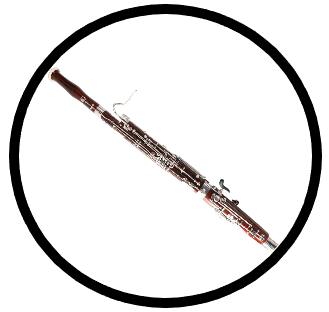
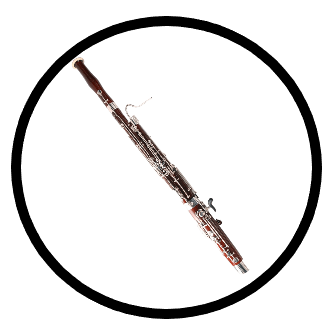
Added pictures of all instruments

Changed region(s): [[0.0304, 0.0, 1.0, 1.0], [0.3951, 0.2885, 0.4255, 0.3173]]

diff --git a/SeniorProject/Properties/Resources.Designer.cs b/SeniorProject/Properties/Resources.Designer.cs
@@ -63,36 +63,6 @@ namespace SeniorProject.Properties {
         /// <summary>
         ///   Looks up a localized resource of type System.Drawing.Bitmap.
         /// </summary>
-        internal static System.Drawing.Bitmap AdjustedFlute {
-            get {
-                object obj = ResourceManager.GetObject("AdjustedFlute", resourceCulture);
-                return ((System.Drawing.Bitmap)(obj));
-            }
-        }
-        
-        /// <summary>
-        ///   Looks up a localized resource of type System.Drawing.Bitmap.
-        /// </summary>
-        internal static System.Drawing.Bitmap AdjustedTrombone {
-            get {
-                object obj = ResourceManager.GetObject("AdjustedTrombone", resourceCulture);
-                return ((System.Drawing.Bitmap)(obj));
-            }
-        }
-        
-        /// <summary>
-        ///   Looks up a localized resource of type System.Drawing.Bitmap.
-        /// </summary>
-        internal static System.Drawing.Bitmap AdjustedTrumpet {
-            get {
-                object obj = ResourceManager.GetObject("AdjustedTrumpet", resourceCulture);
-                return ((System.Drawing.Bitmap)(obj));
-            }
-        }
-        
-        /// <summary>
-        ///   Looks up a localized resource of type System.Drawing.Bitmap.
-        /// </summary>
         internal static System.Drawing.Bitmap AltoSax {
             get {
                 object obj = ResourceManager.GetObject("AltoSax", resourceCulture);
@@ -133,9 +103,9 @@ namespace SeniorProject.Properties {
         /// <summary>
         ///   Looks up a localized resource of type System.Drawing.Bitmap.
         /// </summary>
-        internal static System.Drawing.Bitmap TromboneBiggerCanvas {
+        internal static System.Drawing.Bitmap FrenchHorn {
             get {
-                object obj = ResourceManager.GetObject("TromboneBiggerCanvas", resourceCulture);
+                object obj = ResourceManager.GetObject("FrenchHorn", resourceCulture);
                 return ((System.Drawing.Bitmap)(obj));
             }
         }
@@ -143,9 +113,49 @@ namespace SeniorProject.Properties {
         /// <summary>
         ///   Looks up a localized resource of type System.Drawing.Bitmap.
         /// </summary>
-        internal static System.Drawing.Bitmap TromboneCircle {
+        internal static System.Drawing.Bitmap Oboe {
             get {
-                object obj = ResourceManager.GetObject("TromboneCircle", resourceCulture);
+                object obj = ResourceManager.GetObject("Oboe", resourceCulture);
+                return ((System.Drawing.Bitmap)(obj));
+            }
+        }
+        
+        /// <summary>
+        ///   Looks up a localized resource of type System.Drawing.Bitmap.
+        /// </summary>
+        internal static System.Drawing.Bitmap TenorSax {
+            get {
+                object obj = ResourceManager.GetObject("TenorSax", resourceCulture);
+                return ((System.Drawing.Bitmap)(obj));
+            }
+        }
+        
+        /// <summary>
+        ///   Looks up a localized resource of type System.Drawing.Bitmap.
+        /// </summary>
+        internal static System.Drawing.Bitmap Trombone {
+            get {
+                object obj = ResourceManager.GetObject("Trombone", resourceCulture);
+                return ((System.Drawing.Bitmap)(obj));
+            }
+        }
+        
+        /// <summary>
+        ///   Looks up a localized resource of type System.Drawing.Bitmap.
+        /// </summary>
+        internal static System.Drawing.Bitmap Trumpet {
+            get {
+                object obj = ResourceManager.GetObject("Trumpet", resourceCulture);
+                return ((System.Drawing.Bitmap)(obj));
+            }
+        }
+        
+        /// <summary>
+        ///   Looks up a localized resource of type System.Drawing.Bitmap.
+        /// </summary>
+        internal static System.Drawing.Bitmap Tuba {
+            get {
+                object obj = ResourceManager.GetObject("Tuba", resourceCulture);
                 return ((System.Drawing.Bitmap)(obj));
             }
         }

diff --git a/SeniorProject/InstrumentForm.cs b/SeniorProject/InstrumentForm.cs
@@ -26,6 +26,7 @@ namespace SeniorProject
             instrumentList.Items.Add("Trombone");
             instrumentList.Items.Add("Trumpet");
             instrumentList.Items.Add("Tuba");
+            instrumentList.SelectedIndex = 0;
         }
 
         private void instrumentList_SelectedIndexChanged(object sender, EventArgs e)
@@ -41,14 +42,26 @@ namespace SeniorProject
                 case "Clarinet":
                     instrumentPicture.BackgroundImage = Properties.Resources.Clarinet;
                     break;
+                case "French Horn":
+                    instrumentPicture.BackgroundImage = Properties.Resources.FrenchHorn;
+                    break;
                 case "Flute":
-                    instrumentPicture.BackgroundImage = Properties.Resources.AdjustedFlute;
+                    instrumentPicture.BackgroundImage = Properties.Resources.Flute;
+                    break;
+                case "Oboe":
+                    instrumentPicture.BackgroundImage = Properties.Resources.Oboe;
+                    break;
+                case "Tenor Sax":
+                    instrumentPicture.BackgroundImage = Properties.Resources.TenorSax;
                     break;
                 case "Trombone":
-                    instrumentPicture.BackgroundImage = Properties.Resources.AdjustedTrombone;
+                    instrumentPicture.BackgroundImage = Properties.Resources.Trombone;
                     break;
                 case "Trumpet":
-                    instrumentPicture.BackgroundImage = Properties.Resources.AdjustedTrumpet;
+                    instrumentPicture.BackgroundImage = Properties.Resources.Trumpet;
+                    break;
+                case "Tuba":
+                    instrumentPicture.BackgroundImage = Properties.Resources.Tuba;
                     break;
                 default:
                     break;
